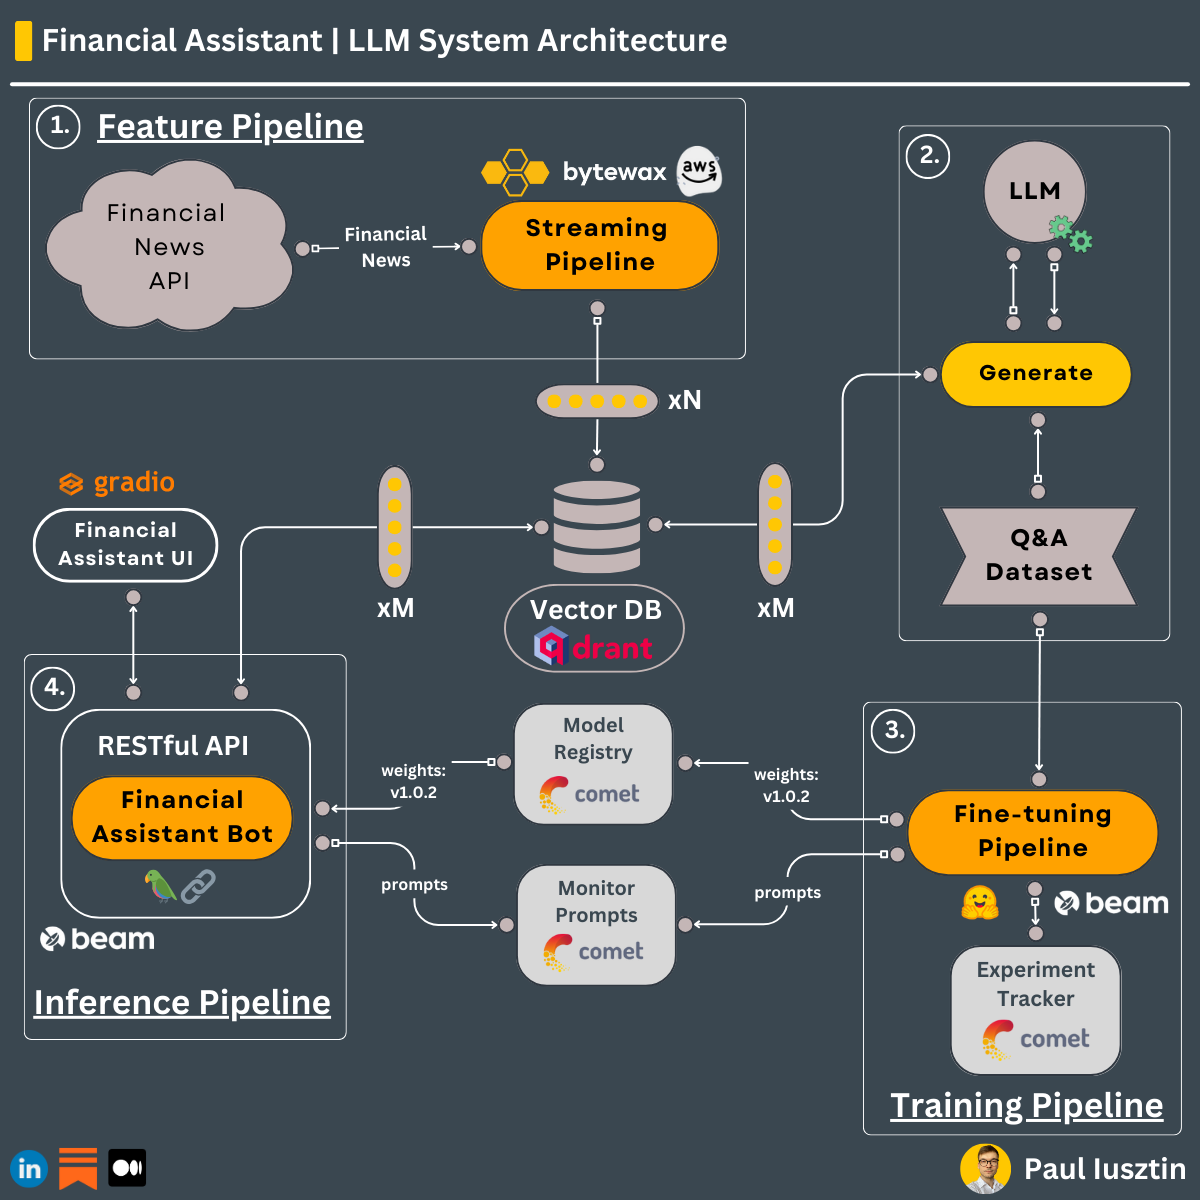
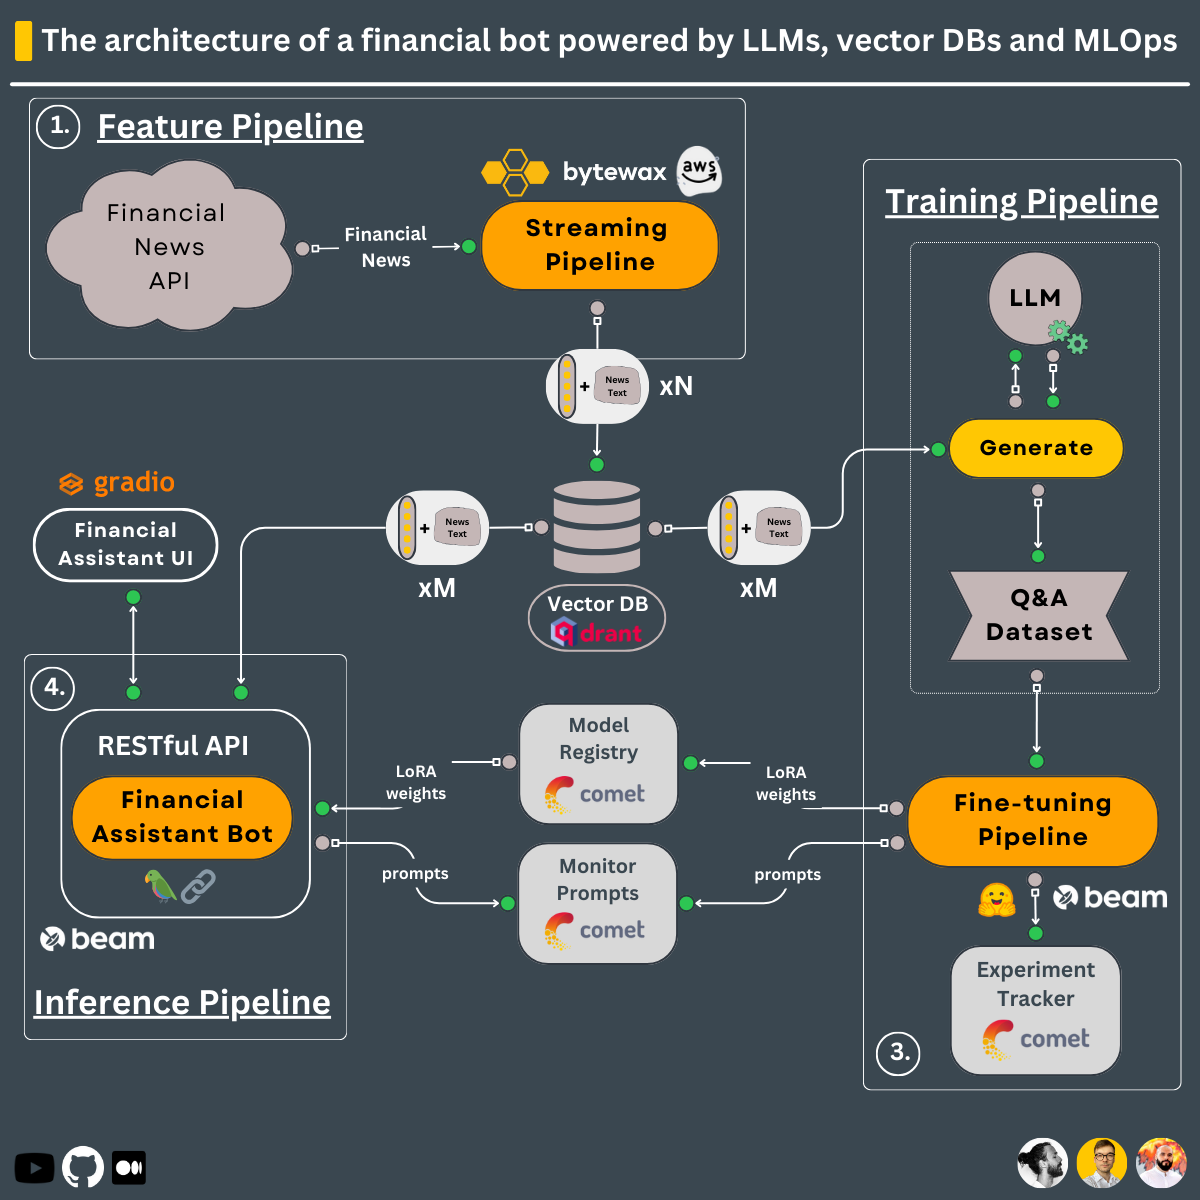
Docs/bot 3: Financial bot docs (#24)
* docs: Change architecture diagram

* docs: Update financial bot docs

diff --git a/modules/financial_bot/README.md b/modules/financial_bot/README.md
@@ -1,6 +1,12 @@
 # Financial Assistant Bot
 
-[Add a short description]
+Inference pipeline that uses LangChain to create a chain that:
+* downloads the fine-tuned model from Comet's model registry
+* takes user questions as input
+* queries the Qdrant Vector DB and enhances the prompt with related financial news
+* calls the fine-tuned LLM for the final answer
+* persists the chat history into memory 
+
 
 ## Table of Contents
 
@@ -14,13 +20,18 @@
     - [3.2. Local](#32-deploy-to-beam)
     - [3.3. Linting & Formatting](#34-linting--formatting)
 
-[Finish table of contents]
-
-
 # 1. Motivation
 
-[Add Motivation]
+The inference pipeline defines how the user interacts with all the components we've built so far. We will combine all the components and make the actual financial assistant chatbot.
 
+Thus, using LangChain, we will create a series of chains that:
+* download & load the fine-tuned model from Comet's model registry
+* take the user's input, embed it, and query the Qdrant Vector DB to extract related financial news
+* build the prompt based on the user input, financial news context, and chat history
+* call the LLM
+* persist the history in memory
+
+Also, the final step is to put the financial assistant to good use and deploy it as a serverless RESTful API using Beam. 
 
 # 2. Install 
 
@@ -30,7 +41,6 @@ Main dependencies you have to install yourself:
 * Python 3.10
 * Poetry 1.5.1
 * GNU Make 4.3
-
 
 Install dependencies:
 ```shell
@@ -58,12 +68,9 @@ You must create a FREE account in Qdrant and generate the `QDRANT_API_KEY` and `
 ### 2.3. Beam
 `optional step in case you want to use Beam` 
 
--> [Create a Beam account & configure it.](https://www.beam.cloud?utm_source=thepauls&utm_medium=partner&utm_content=github)
+Create and configure a free Beam account to deploy it as a serverless RESTful API and show it to your friends. You will pay only for what you use. 
 
-After you have to upload the dataset to a Beam volume:
-```shell
-make upload_dataset_to_beam
-```
+-> [Create a Beam account & configure it.](https://www.beam.cloud?utm_source=thepauls&utm_medium=partner&utm_content=github)
 
 
 # 3. Usage
